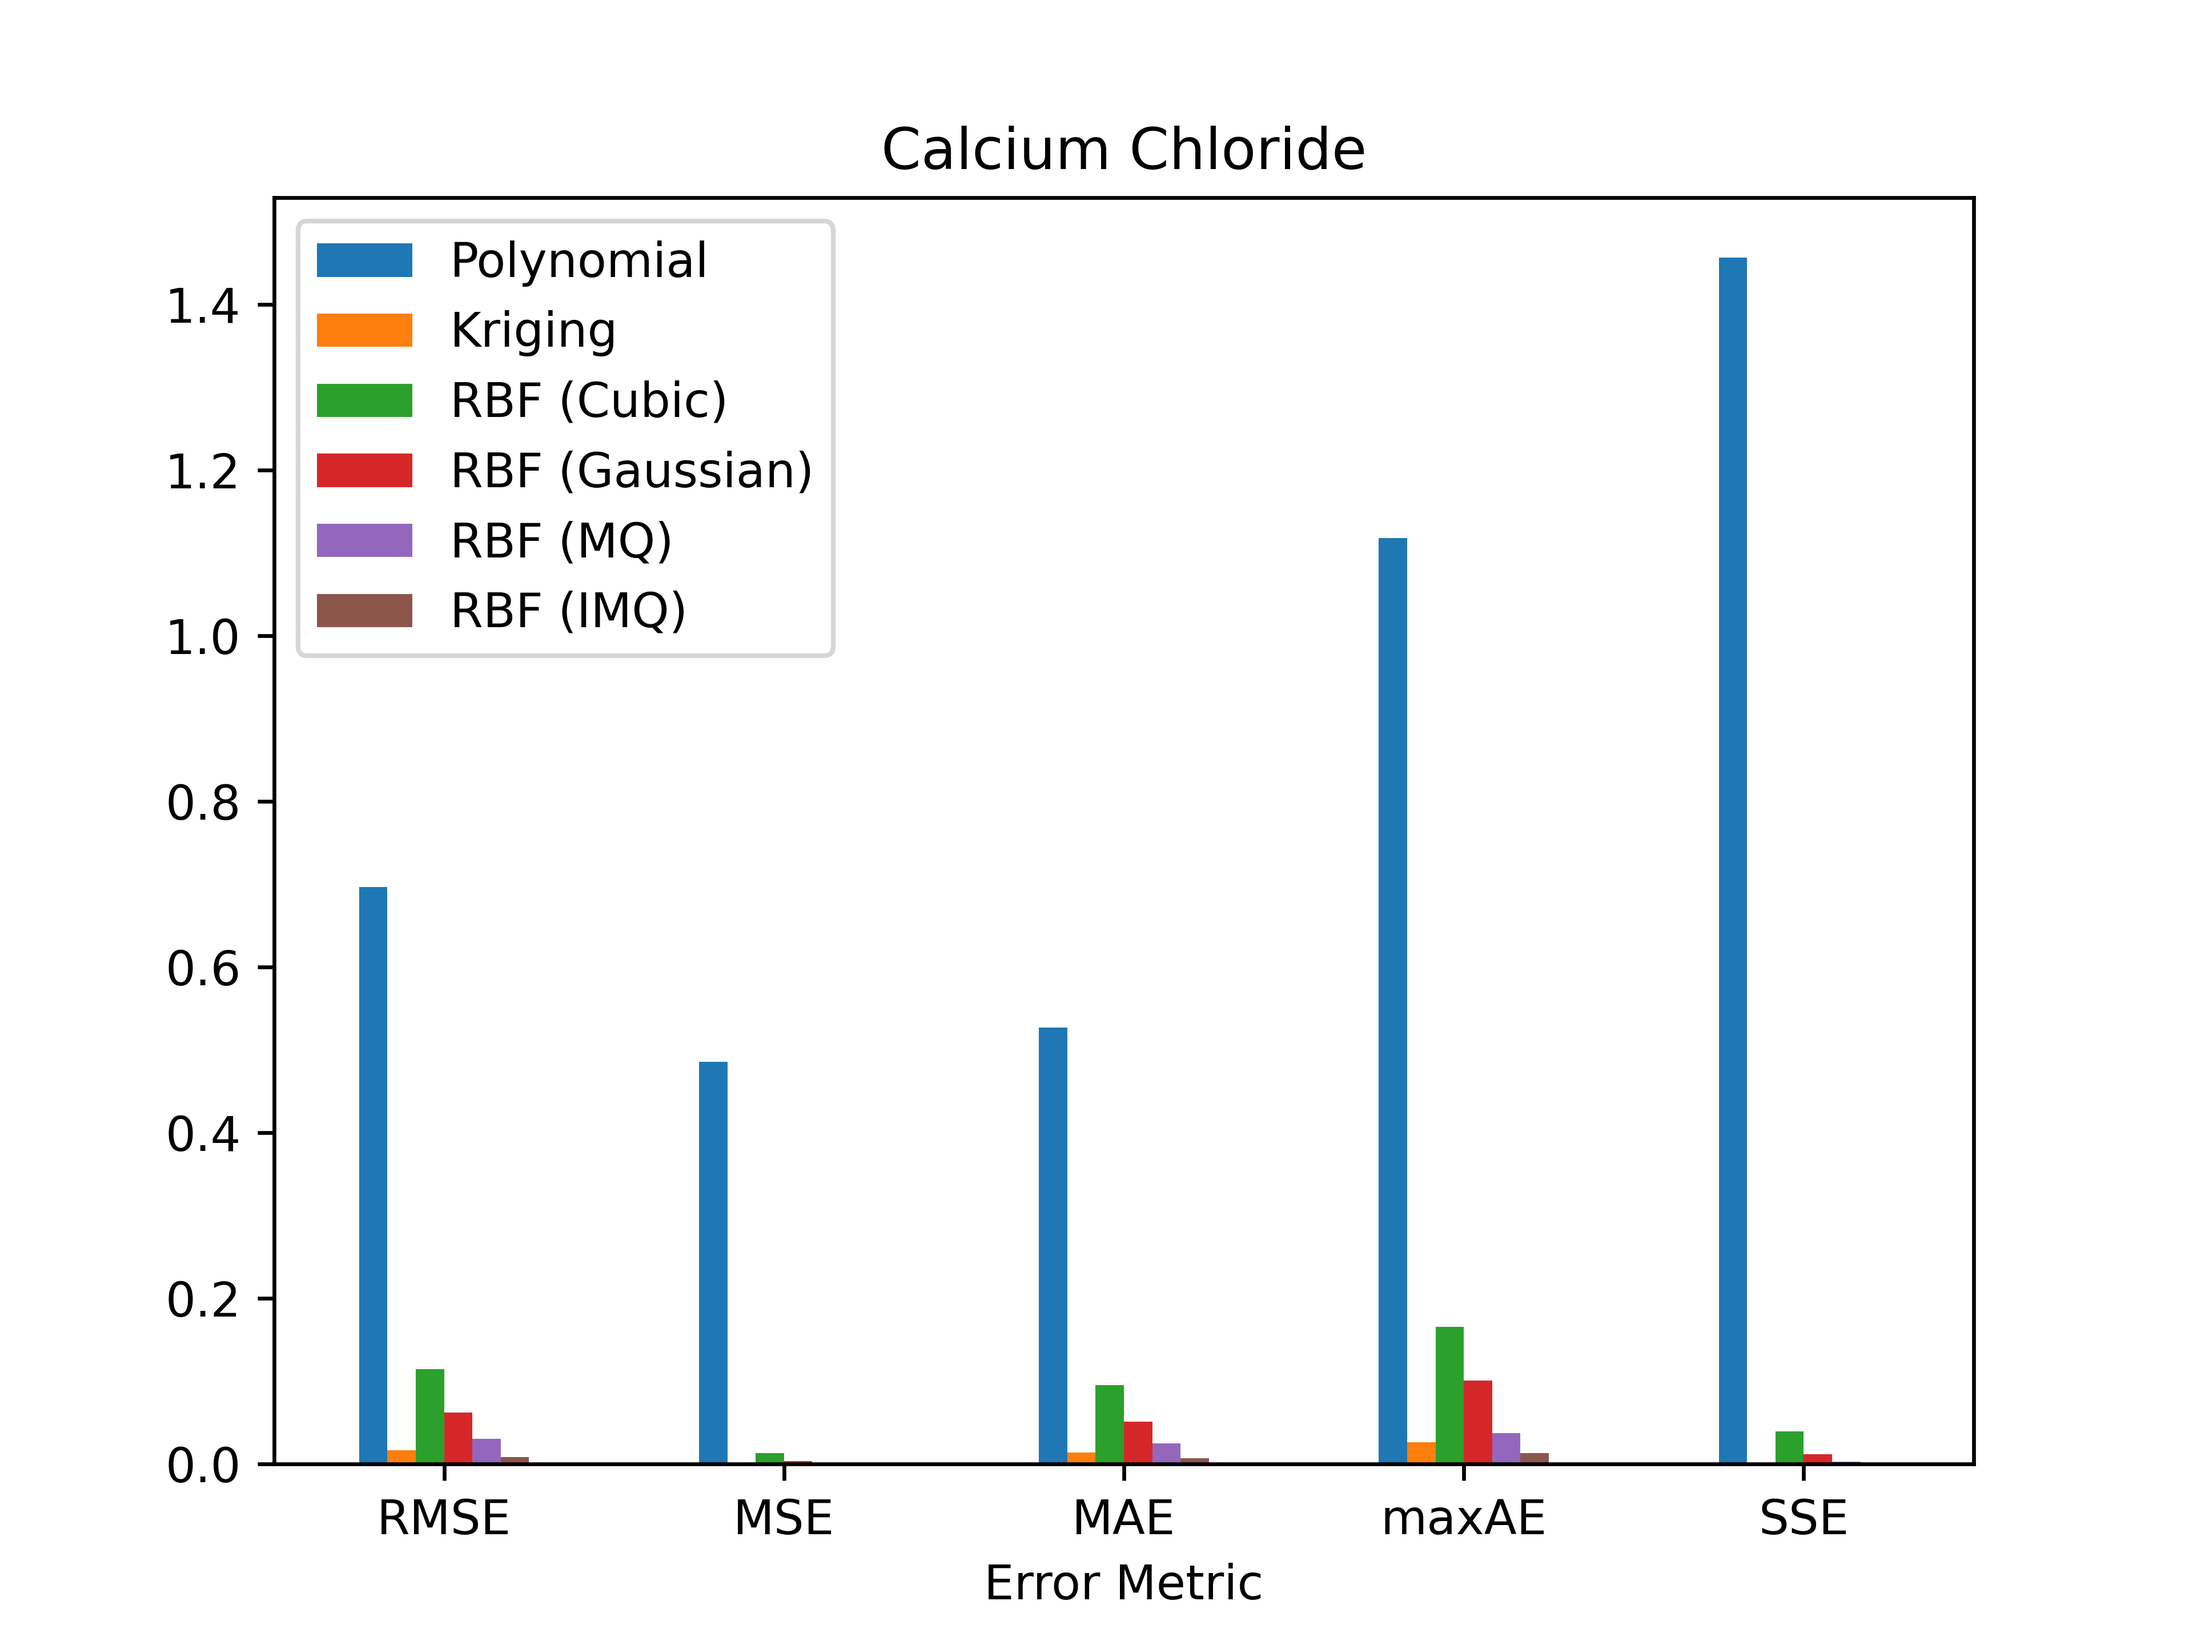
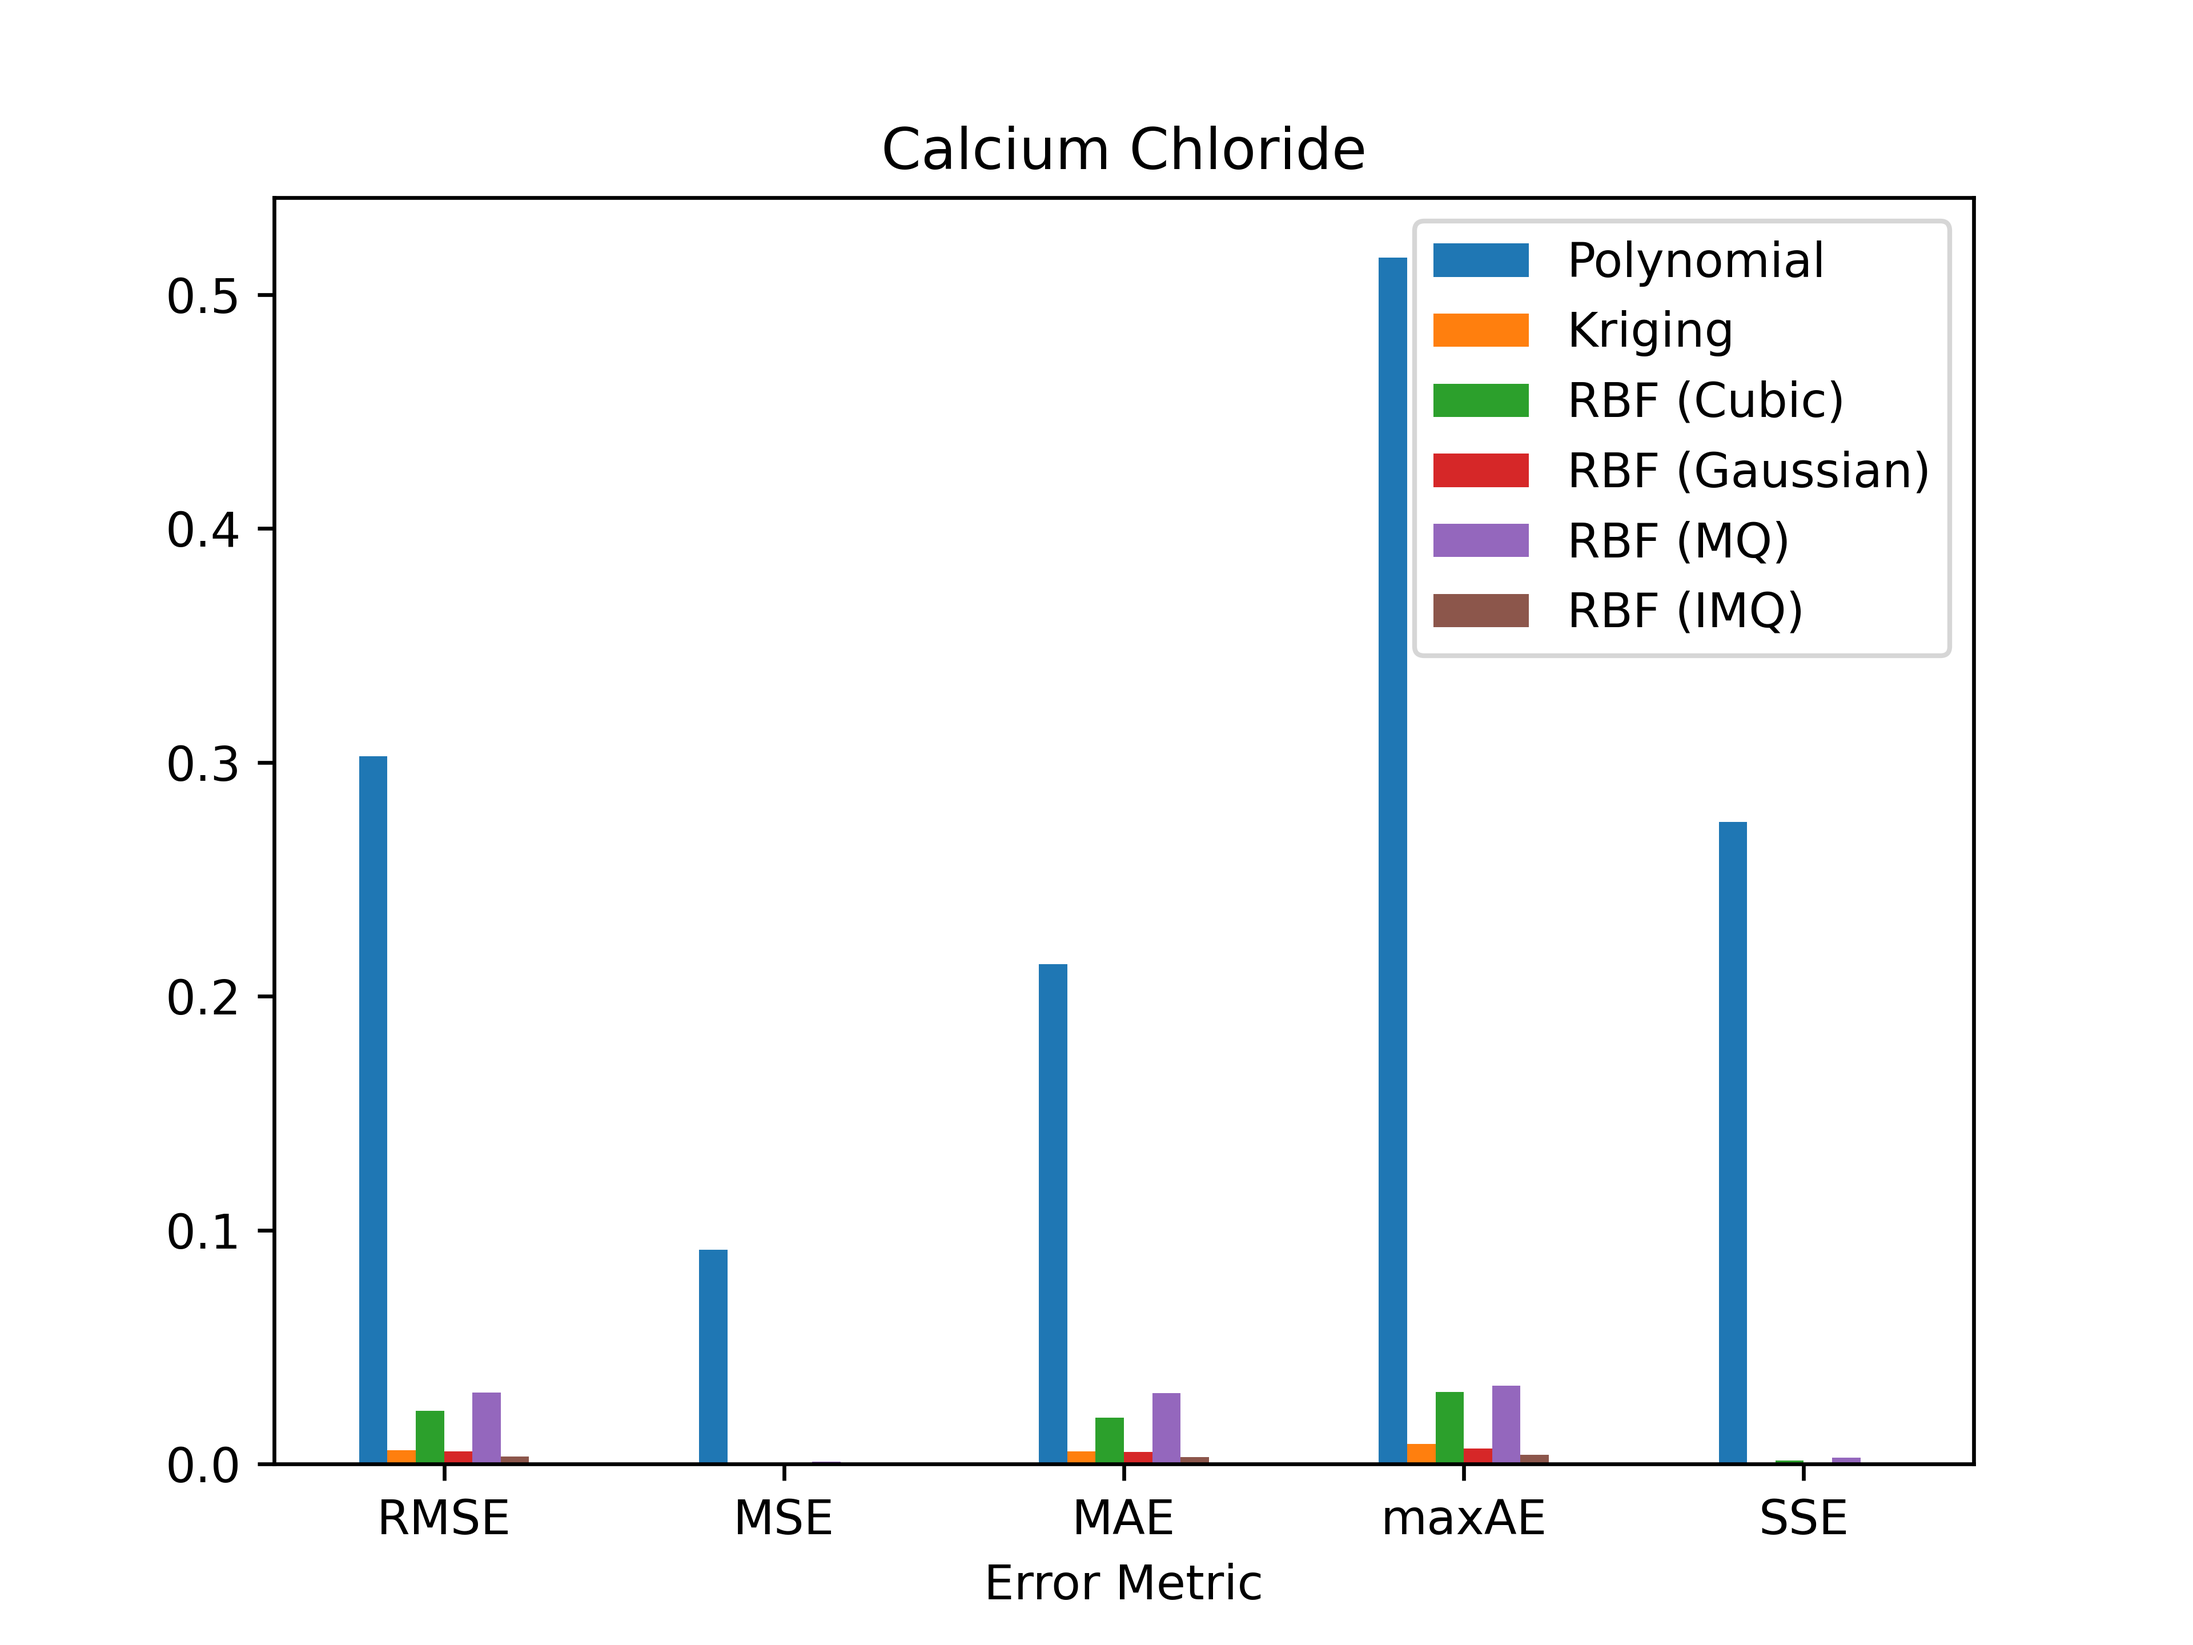
updated gaps in Na and Ca training data

diff --git a/src/prommis/nanofiltration/surrogate_model_analysis/generate_synthetic_data.py b/src/prommis/nanofiltration/surrogate_model_analysis/generate_synthetic_data.py
@@ -34,8 +34,8 @@ from prommis.nanofiltration.multi_component_diafiltration import (
 
 
 def main():
-    # generate_single_salt_data(cation="Na")
-    # generate_single_salt_data(cation="Ca")
+    generate_single_salt_data(cation="Na")
+    generate_single_salt_data(cation="Ca")
     generate_single_salt_data(cation="La")
 
 
@@ -216,55 +216,87 @@ def generate_single_salt_data(cation):
     water_flux_list = []
     ion_flux_list = []
 
-    for water_flux in water_fluxes:
-        for concentration in concentrations:
-            if concentration == concentrations[0]:
-                model = build_model(
-                    cation_list=[cation],
-                    inlet_concentration={
-                        "feed": {
-                            cation: concentration,
-                            "Cl": chloride_multiplier * concentration,
+    if cation == "La":
+        for water_flux in water_fluxes:
+            for concentration in concentrations:
+                if concentration == concentrations[0]:
+                    model = build_model(
+                        cation_list=[cation],
+                        inlet_concentration={
+                            "feed": {
+                                cation: concentration,
+                                "Cl": chloride_multiplier * concentration,
+                            },
+                            "diafiltrate": {
+                                cation: diafiltrate[cation],
+                                "Cl": 1e-10,
+                            },
                         },
-                        "diafiltrate": {
-                            cation: diafiltrate[cation],
-                            "Cl": 1e-10,
+                        default_args=default_args,
+                        NFE_args=NFE_args,
+                        water_flux=water_flux,
+                        data_membrane_thickness=l_m,
+                        multiplier_H_feed=1.2,
+                        multiplier_H_perm=1,
+                        non_Donnan_partition_dict={
+                            cation: cation_phi_star_value,
+                            "Cl": chloride_phi_star_value,
                         },
-                    },
-                    default_args=default_args,
-                    NFE_args=NFE_args,
-                    water_flux=water_flux,
-                    data_membrane_thickness=l_m,
-                    multiplier_H_feed=1.2,
-                    multiplier_H_perm=1,
-                    non_Donnan_partition_dict={
-                        cation: cation_phi_star_value,
-                        "Cl": chloride_phi_star_value,
-                    },
-                    initialize_and_solve=True,
-                )
+                        initialize_and_solve=True,
+                    )
 
-                conc_list.append(concentration)
-                water_flux_list.append(water_flux)
-                ion_flux_list.append(get_average_flux(model, cation))
+                    conc_list.append(concentration)
+                    water_flux_list.append(water_flux)
+                    ion_flux_list.append(get_average_flux(model, cation))
 
-            else:
-                model.del_component(model.water_flux_constraint)
+                else:
+                    model.del_component(model.water_flux_constraint)
 
-                for t in model.fs.membrane.time:
-                    for j in model.fs.membrane.solutes:
-                        model.fs.membrane.feed_conc_mol_comp[t, j].set_value(concentration)
-        
-                solve_model(model)
-                unfix_pressure(model, water_flux_target=water_flux)
-                solve_model(model)
-        
-                dt = DiagnosticsToolbox(model)
-                dt.assert_no_numerical_warnings(model)
+                    for t in model.fs.membrane.time:
+                        for j in model.fs.membrane.solutes:
+                            model.fs.membrane.feed_conc_mol_comp[t, j].set_value(concentration)
+            
+                    solve_model(model)
+                    unfix_pressure(model, water_flux_target=water_flux)
+                    solve_model(model)
+            
+                    dt = DiagnosticsToolbox(model)
+                    dt.assert_no_numerical_warnings(model)
 
-                conc_list.append(concentration)
-                water_flux_list.append(water_flux)
-                ion_flux_list.append(get_average_flux(model, cation))
+                    conc_list.append(concentration)
+                    water_flux_list.append(water_flux)
+                    ion_flux_list.append(get_average_flux(model, cation))
+    else:
+        for water_flux in water_fluxes:
+                for concentration in concentrations:
+                    model = build_model(
+                        cation_list=[cation],
+                        inlet_concentration={
+                            "feed": {
+                                cation: concentration,
+                                "Cl": chloride_multiplier * concentration,
+                            },
+                            "diafiltrate": {
+                                cation: diafiltrate[cation],
+                                "Cl": 1e-10,
+                            },
+                        },
+                        default_args=default_args,
+                        NFE_args=NFE_args,
+                        water_flux=water_flux,
+                        data_membrane_thickness=l_m,
+                        multiplier_H_feed=1.2,
+                        multiplier_H_perm=1,
+                        non_Donnan_partition_dict={
+                            cation: cation_phi_star_value,
+                            "Cl": chloride_phi_star_value,
+                        },
+                        initialize_and_solve=True,
+                    )
+    
+                    conc_list.append(concentration)
+                    water_flux_list.append(water_flux)
+                    ion_flux_list.append(get_average_flux(model, cation))
 
     dict = {
         "feed_conc": conc_list,
